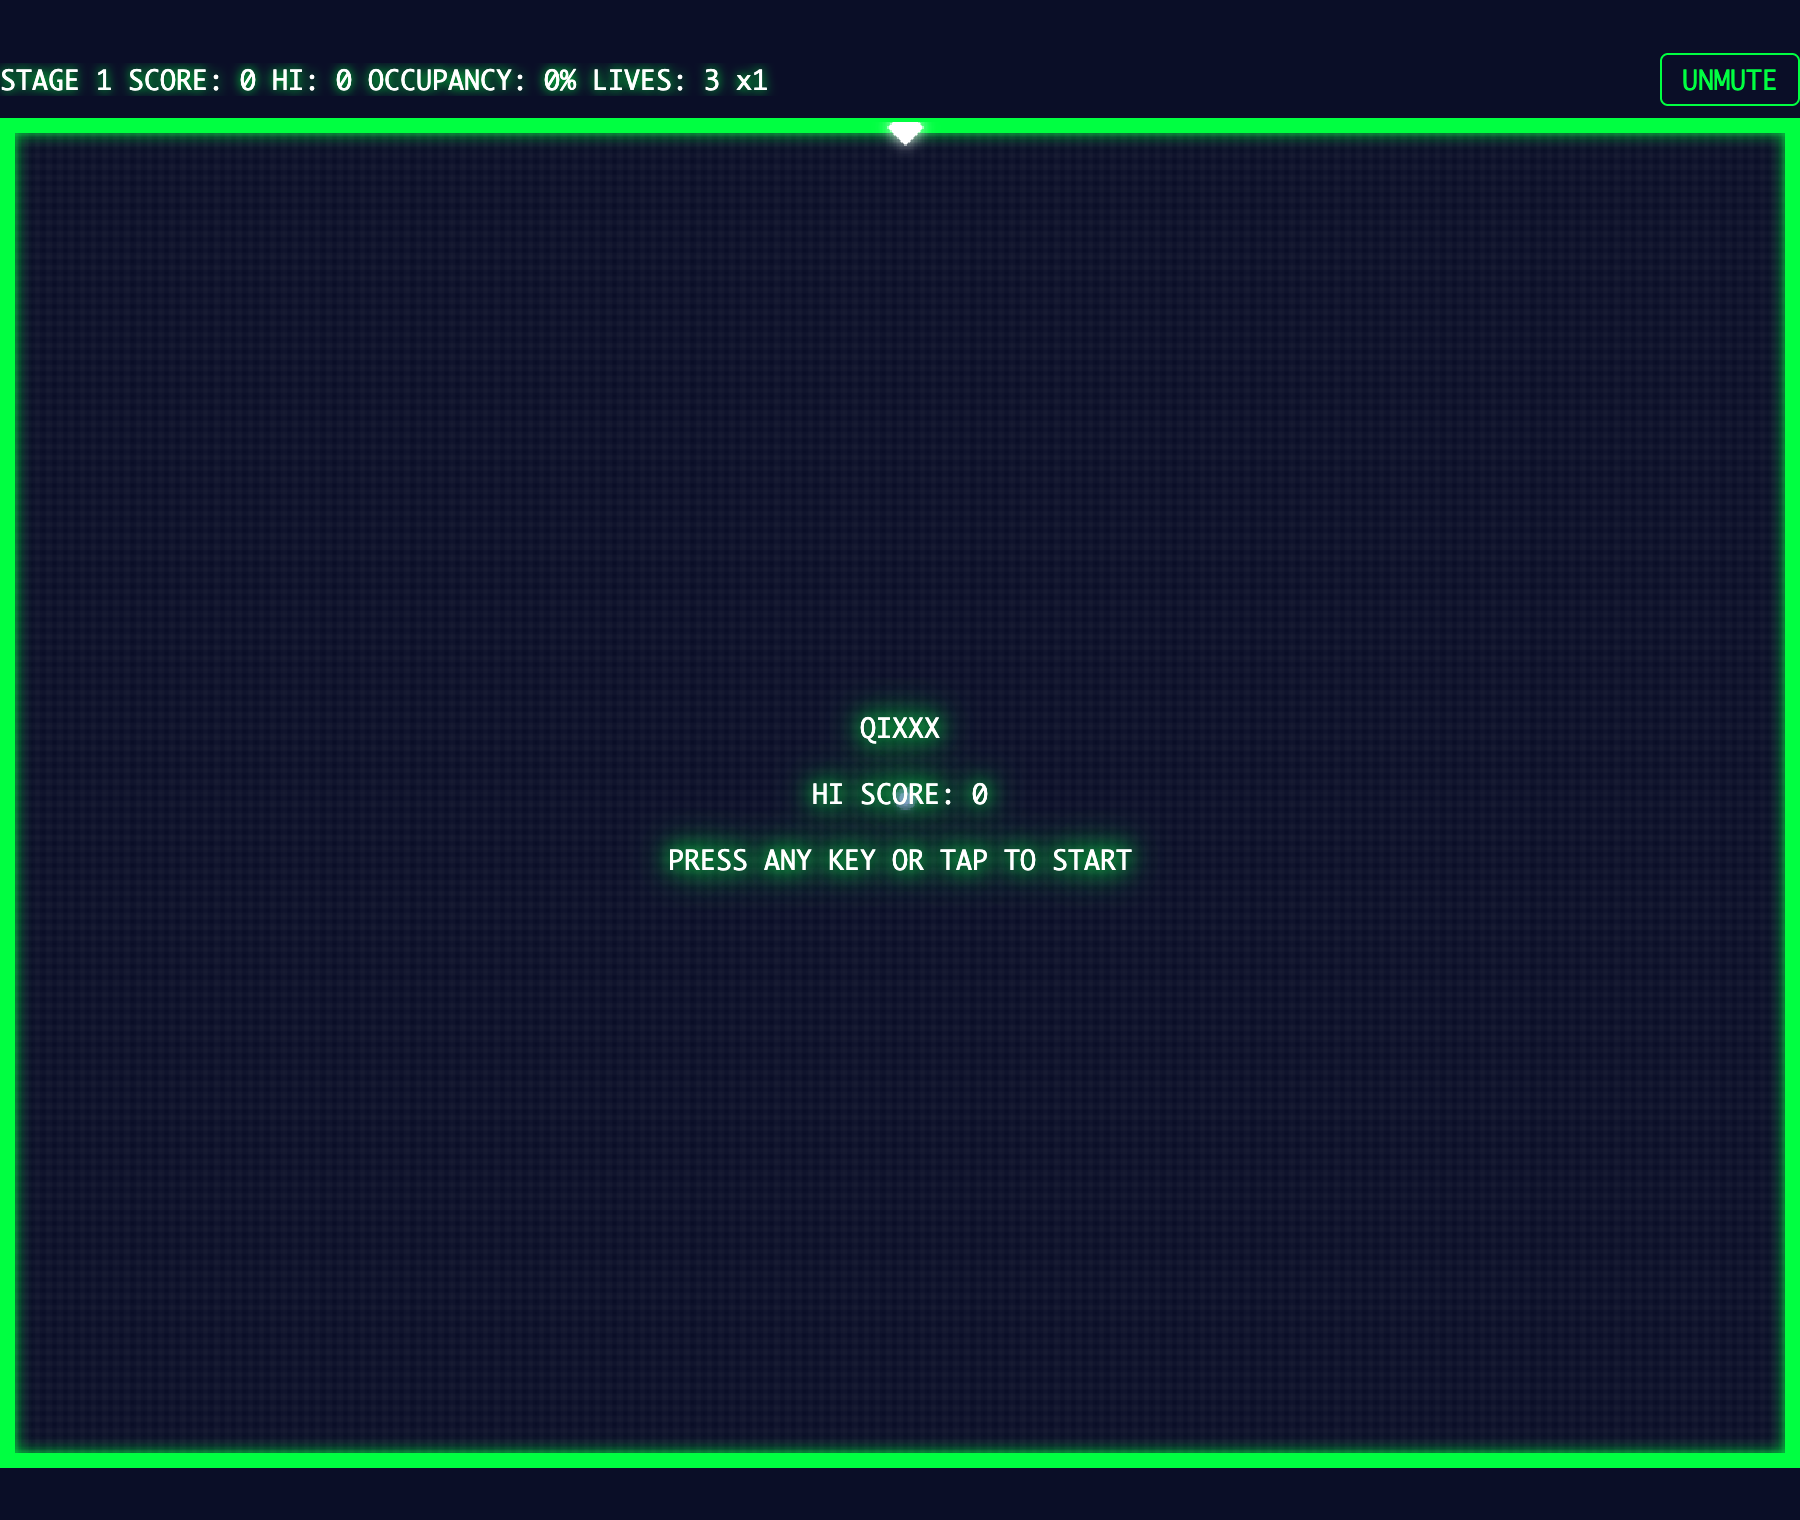
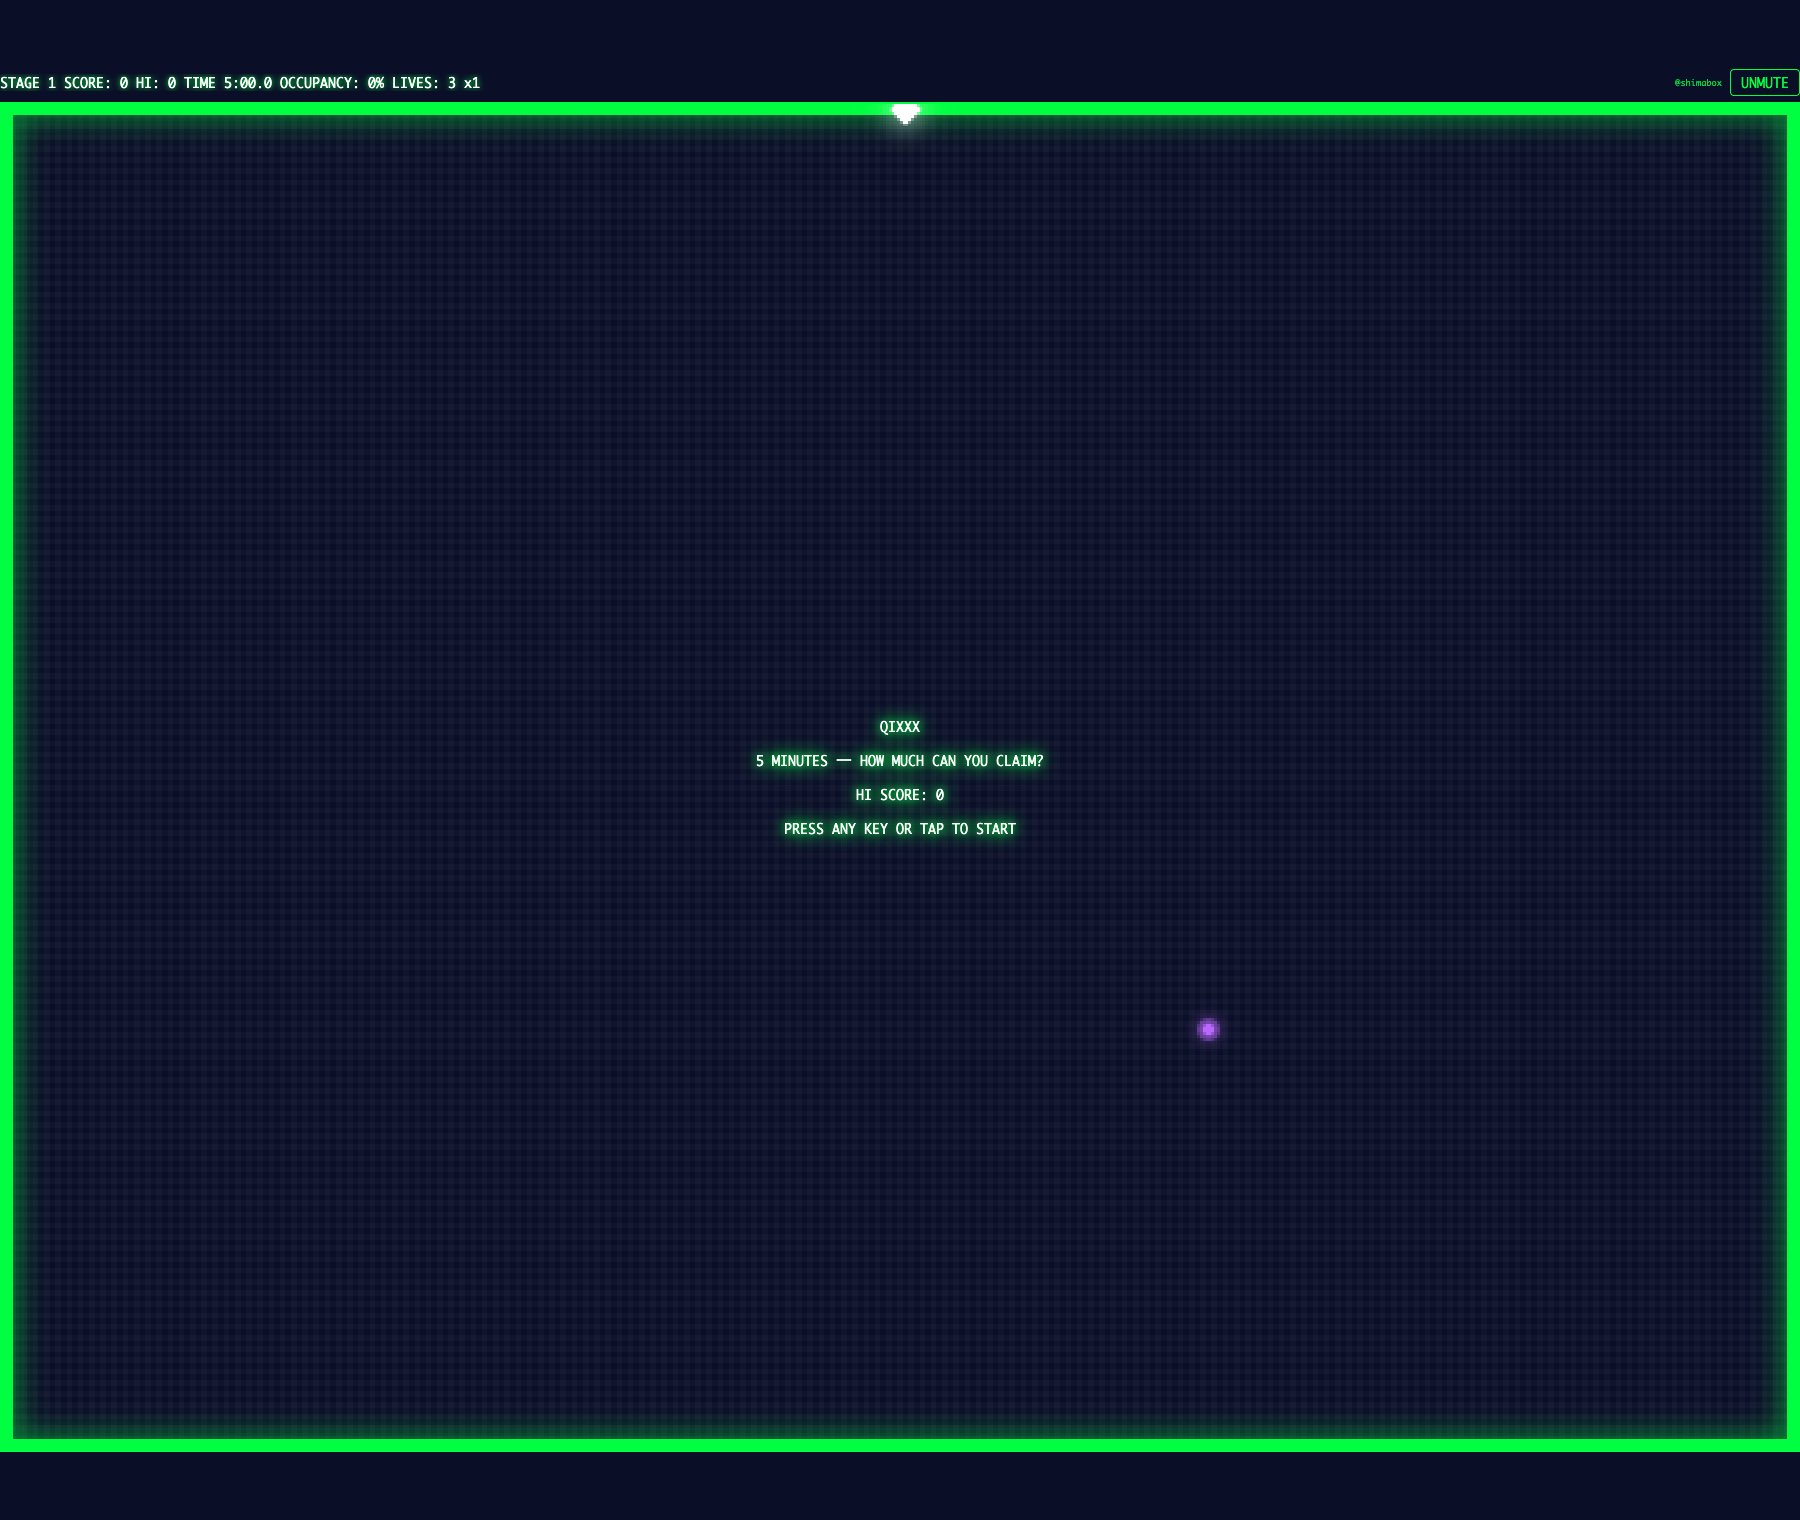
fix: address user-review findings on the time-limit mode (P2/P3)
- docs/how-to-play.md: document the 5-minute time-limit/TIME UP rule
  (intro, LIVES row, section 6/9), add a TIME row (countdown + 30s warning
  color) to the HUD table, and retake title.png/hud.png against the current
  build — both were pre-TIME-ATTACK screenshots with no TIME field at all.
  Other screenshots (stageclear2.png, gameover.png, etc.) still show a
  TIME-less HUD incidentally in the background; left as-is since the HUD bar
  isn't what those captions are illustrating — flagged in the report rather
  than reshot wholesale.
- src/debug/panel.ts: EXPORT now includes the run's effective time budget as
  TIME_LIMIT_TICKS (matching config.ts's constant name/unit), alongside the
  existing EffectiveDebugParams-derived keys.
- src/debug/panel.ts: the debug panel's position no longer goes stale.
  Previously it was computed once, synchronously, from hudRow's rect before
  the DEBUG badge was even appended (which can itself grow hudRow into
  stacked/3-line mode) and before main.ts's own post-mount
  fitCanvasToViewport() re-run — causing a real overlap with the HUD row
  (user-measured at both 1280x720 and 880x700). A ResizeObserver on hudRow
  now keeps the panel's top/maxHeight in sync with hudRow's actual bottom
  edge whenever its box changes (mode flips, resizes), without polling.

diff --git a/src/debug/panel.ts b/src/debug/panel.ts
@@ -136,8 +136,18 @@ const FIELDS: SliderField[] = [
  * single 1:1 config constant (stage-dependent counts, dynamic Ember count)
  * use the closest/most-descriptive name plus a `_notes` explanation instead,
  * exactly as the plan permits ("対応する config 定数名か注記付きキー").
+ *
+ * `timeLimitTicks` (docs/plans/2026-08-13-time-limit-mode P3 review fix) is
+ * threaded in as its own parameter, separately from `params`
+ * (EffectiveDebugParams) — the run's time budget is a GameSession-level
+ * concern (GameSession.getTimeLimitTicks()), not one of Game's own
+ * EffectiveDebugParams, exactly like the time-limit slider itself (see
+ * buildPanel()'s `timeLimit` row) — but it still needs to end up in this
+ * same EXPORT payload, under the exact `TIME_LIMIT_TICKS` name, so the
+ * existing EXPORT-JSON -> config.ts tuning workflow picks it up like every
+ * other slider here.
  */
-function buildExportPayload(params: EffectiveDebugParams): Record<string, unknown> {
+function buildExportPayload(params: EffectiveDebugParams, timeLimitTicks: number): Record<string, unknown> {
   return {
     WISP_COUNT: params.wispCount,
     WISP_SPEED_MULTIPLIER: params.wispSpeedMultiplier,
@@ -146,6 +156,7 @@ function buildExportPayload(params: EffectiveDebugParams): Record<string, unknow
     EMBER_SPAWN_INTERVAL_SEC: params.emberSpawnIntervalSec,
     EMBER_BRANCH_CHASE_PROBABILITY: params.emberBranchChaseProbability,
     DEFAULT_REQUIRED_OCCUPANCY: params.requiredOccupancy,
+    TIME_LIMIT_TICKS: timeLimitTicks,
     _notes: {
       WISP_COUNT:
         'Number of Wisps this stage. config.ts has no single constant for this — docs/plan.md §12.7 defines it as the stage number itself (stage n = n Wisps), capped at STAGE_MAX_DIFFICULTY.',
@@ -155,6 +166,8 @@ function buildExportPayload(params: EffectiveDebugParams): Record<string, unknow
         'Current live Ember count. Embers spawn dynamically in pairs (see EMBER_SPAWN_INTERVAL_SEC), capped by the stage-dependent maxConcurrentEmbers (docs/plan.md §12.7: EMBER_MAX_CONCURRENT_STAGE1 at stage 1 up to EMBER_MAX_CONCURRENT_MAX at stage STAGE_MAX_DIFFICULTY) rather than a fixed config constant.',
       DEFAULT_REQUIRED_OCCUPANCY:
         'Effective required occupancy for the current stage. config.ts has no single constant for this — docs/plan.md §12.7 linearly interpolates it from DEFAULT_REQUIRED_OCCUPANCY (stage 1) up to REQUIRED_OCCUPANCY_MAX (stage STAGE_MAX_DIFFICULTY).',
+      TIME_LIMIT_TICKS:
+        "The run's current effective time budget, in ticks (60 tick = 1s at TICK_RATE) — matches config.ts's TIME_LIMIT_TICKS constant exactly (name and unit), unlike this payload's other stage-dependent keys. Reflects the time-limit slider above, whether or not it's been touched from its config.ts default.",
     },
   };
 }
@@ -212,13 +225,6 @@ export interface DebugPanelHandle {
  * free should session-swapping ever be reintroduced.
  */
 export function initDebugPanel(getSession: () => GameSession, hudRow: HTMLElement): DebugPanelHandle {
-  // Positioned below the HUD row (rather than a fixed pixel guess) so the
-  // floating panel never covers the "DEBUG" badge or the MUTE button that
-  // also live in the HUD row, regardless of how tall it renders at a given
-  // viewport width (docs/plan.md's HUD row height is itself responsive,
-  // see main.ts's fitCanvasToViewport()).
-  const panelTop = hudRow.getBoundingClientRect().bottom + 8;
-
   // Collapsible (2026-07-07 feedback: the panel sat on top of the field and
   // got in the way of actually playing). The badge itself doubles as the
   // open/close toggle — one click re-opens a collapsed panel just as easily
@@ -237,10 +243,31 @@ export function initDebugPanel(getSession: () => GameSession, hudRow: HTMLElemen
   };
 
   const badge = buildDebugBadge(() => setOpen(!isOpen));
-  const { panel, sync } = buildPanel(getSession, panelTop, () => setOpen(false));
+  const { panel, sync } = buildPanel(getSession, () => setOpen(false));
   hudRow.appendChild(badge);
   document.body.appendChild(panel);
   setOpen(true);
+
+  // Position tracking (P3 review fix, docs/plans/2026-08-13-time-limit-mode:
+  // user-measured overlap at both 1280x720 and 880x700 — panel top 36-39px
+  // vs. the actual HUD row bottom at 54px). The panel used to be positioned
+  // once, synchronously, right here — using hudRow's rect from *before* the
+  // badge above was even appended to it (which can itself grow hudRow, e.g.
+  // by pushing a borderline single-line HUD into stacked/3-line mode) and
+  // before main.ts's own post-mount fitCanvasToViewport() re-run (see
+  // main.ts's init(), right after this function's caller) had a chance to
+  // relay it out again. A ResizeObserver on hudRow — firing only when its
+  // box actually changes, never every frame — keeps `panel.style.top` (and
+  // its `maxHeight`, which depends on the same value) correct through that
+  // followup layout pass and through every later resize/orientationchange or
+  // single/stacked HUD mode flip, without polling.
+  const repositionPanel = (): void => {
+    const top = hudRow.getBoundingClientRect().bottom + 8;
+    panel.style.top = `${top}px`;
+    panel.style.maxHeight = `calc(100vh - ${top + 8}px)`;
+  };
+  repositionPanel(); // best-effort immediate placement — the observer below catches any layout pass this misses
+  new ResizeObserver(repositionPanel).observe(hudRow);
 
   return { refresh: sync };
 }
@@ -266,17 +293,18 @@ function buildDebugBadge(onToggle: () => void): HTMLButtonElement {
 
 function buildPanel(
   getSession: () => GameSession,
-  top: number,
   onClose: () => void
 ): { panel: HTMLDivElement; sync: () => void } {
   const panel = document.createElement('div');
   panel.id = 'debug-panel';
   panel.style.position = 'fixed';
-  panel.style.top = `${top}px`;
+  // `top`/`maxHeight` are deliberately left unset here — they depend on
+  // hudRow's on-screen bottom edge, which isn't stable yet at build time
+  // (docs/plans/2026-08-13-time-limit-mode P3 review fix); initDebugPanel()
+  // sets both, and keeps them in sync afterward, via its repositionPanel().
   panel.style.right = '8px';
   panel.style.zIndex = '1000';
   panel.style.width = '260px';
-  panel.style.maxHeight = `calc(100vh - ${top + 8}px)`;
   panel.style.overflowY = 'auto';
   panel.style.background = 'rgba(10, 14, 39, 0.92)';
   panel.style.border = '1px solid #ffe066';
@@ -400,7 +428,8 @@ function buildPanel(
     exportOutput.value = '';
   });
   const exportButton = buildButton('EXPORT', () => {
-    const payload = buildExportPayload(getSession().getEffectiveDebugParams());
+    const session = getSession();
+    const payload = buildExportPayload(session.getEffectiveDebugParams(), session.getTimeLimitTicks());
     const json = JSON.stringify(payload, null, 2);
     exportOutput.value = json;
     void copyToClipboard(json);

diff --git a/docs/how-to-play.md b/docs/how-to-play.md
@@ -3,6 +3,8 @@
 **QIXXX（キックス）** は、線を引いて陣地を切り取っていく「陣取りアクションゲーム」です。
 敵に触れないように少しずつフィールドを塗りつぶし、**目標占有率（ステージ 1 は 65%。ステージが進むごとに上がり、ステージ 10 で最大の 90%）に達したらステージクリア**です。
 
+**1 プレイは実質 5 分間の時間制限つき。** 制限時間が尽きると、ライフが何個残っていても関係なく **TIME UP** でゲームオーバーになります。「5 分でどこまで稼げるか」が勝負です。
+
 ![タイトル画面](images/title.png)
 
 ブラウザで動きます。デスクトップ（キーボード）でもスマホ（タッチ）でも遊べます。
@@ -34,8 +36,9 @@ npm run dev
 | `STAGE 1` | 現在のステージ番号 |
 | `SCORE` | 現在のスコア |
 | `HI` | ハイスコア（ブラウザに保存され、次回も残ります） |
+| `TIME` | **残り時間のカウントダウン**（例 `4:59.9`）。1 プレイの持ち時間は実質 5 分固定で、0 になると即 TIME UP。**残り 30 秒を切ると文字色が警告色（赤）に変わります** |
 | `OCCUPANCY` | **占有率**。フィールドの何 % を陣地にしたか。これが目標値（ステージ 1 は 65%。ステージが進むごとに上がり、ステージ 10 で最大の 90%）に達するとクリア |
-| `LIVES` | 残りライフ。**3 からスタート、0 でゲームオーバー** |
+| `LIVES` | 残りライフ。**3 からスタート、0 でゲームオーバー**（ライフが残っていても、TIME が 0 になれば同様にゲームオーバーです） |
 | `x1` | 得点倍率（後述の「分断ボーナス」で上がります） |
 | `MUTE`/`UNMUTE` ボタン | 効果音のオン/オフ。**初回はミュート**なので、音を出したいときは `UNMUTE` を押してください。設定は保存されます |
 
@@ -161,7 +164,7 @@ npm run dev
 - **ライフが 1 減り**、得点倍率が **x1 にリセット**されます
 - 直後の **約 2 秒間は無敵**です。ただしこの間は境界線の上を移動して安全な場所へ立て直すことしかできず、新しくラインを引き始めることはできません
 
-**ライフが 0 になるとゲームオーバー**です。
+**ライフが 0 になるとゲームオーバー**です。（**残り時間が 0 になった場合も、ライフの残数にかかわらず TIME UP でゲームオーバー**になります — 詳しくは 9 章）
 
 ---
 
@@ -214,7 +217,11 @@ npm run dev
 
 ![ゲームオーバー画面](images/gameover.png)
 
-ライフが 0 になるとゲームオーバー。
+ゲームオーバーになるのは次の 2 パターンです。
+
+- **ライフが 0 になった**（通常のゲームオーバー）
+- **制限時間（実質 5 分）が 0 になった** — この場合はライフの残数に関係なく、画面に **TIME UP!** と表示されてゲームオーバーになります
+
 ゲームオーバー画面の **POST TO X** ボタンで、そのプレイのスコア・到達ステージを X にシェアできます（スコア入りカード画像付き）。**BACK TO TITLE**（または何かキー/タップ）でタイトルに戻ります。
 **ハイスコアはブラウザに自動保存**され、次回起動時のタイトル画面に表示されます。
 
